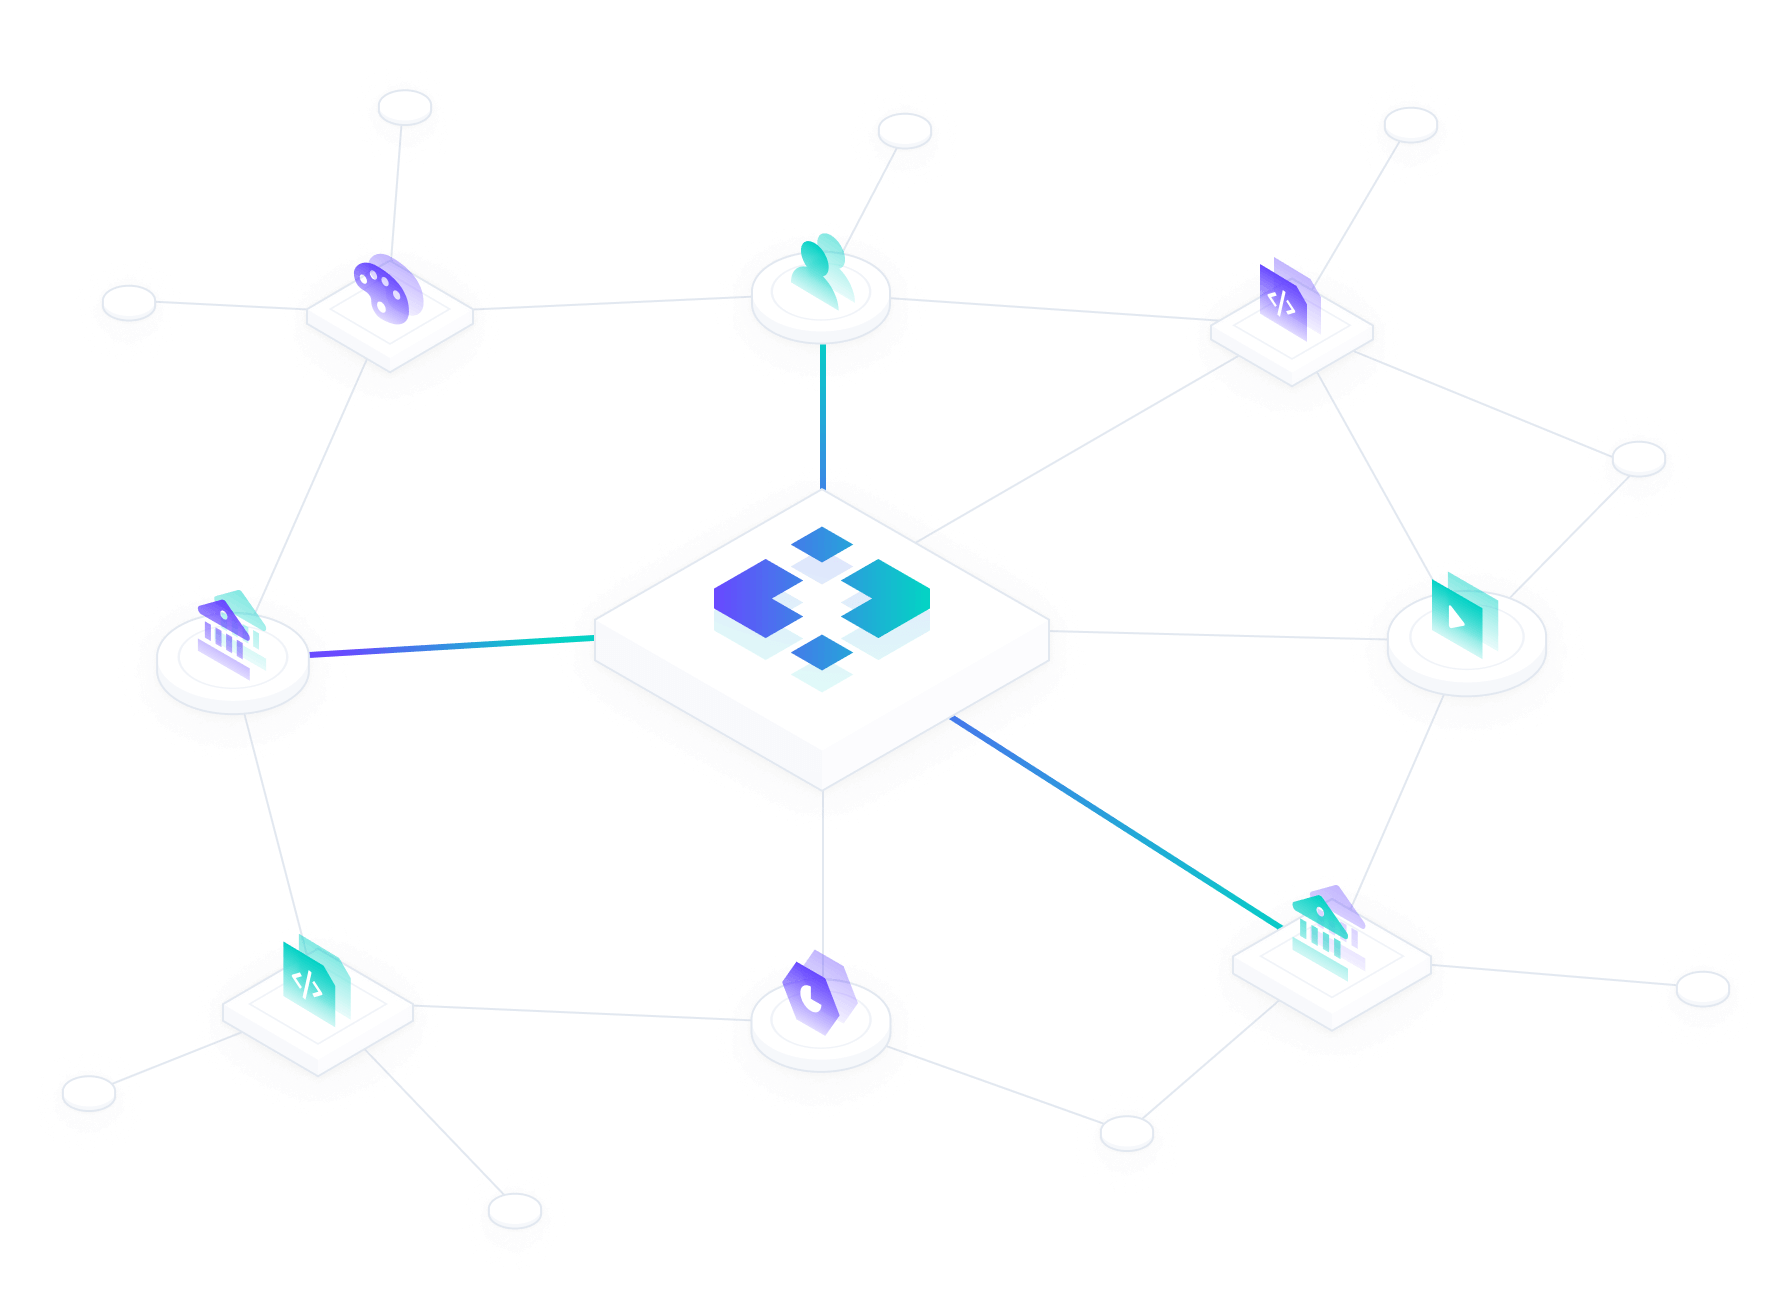
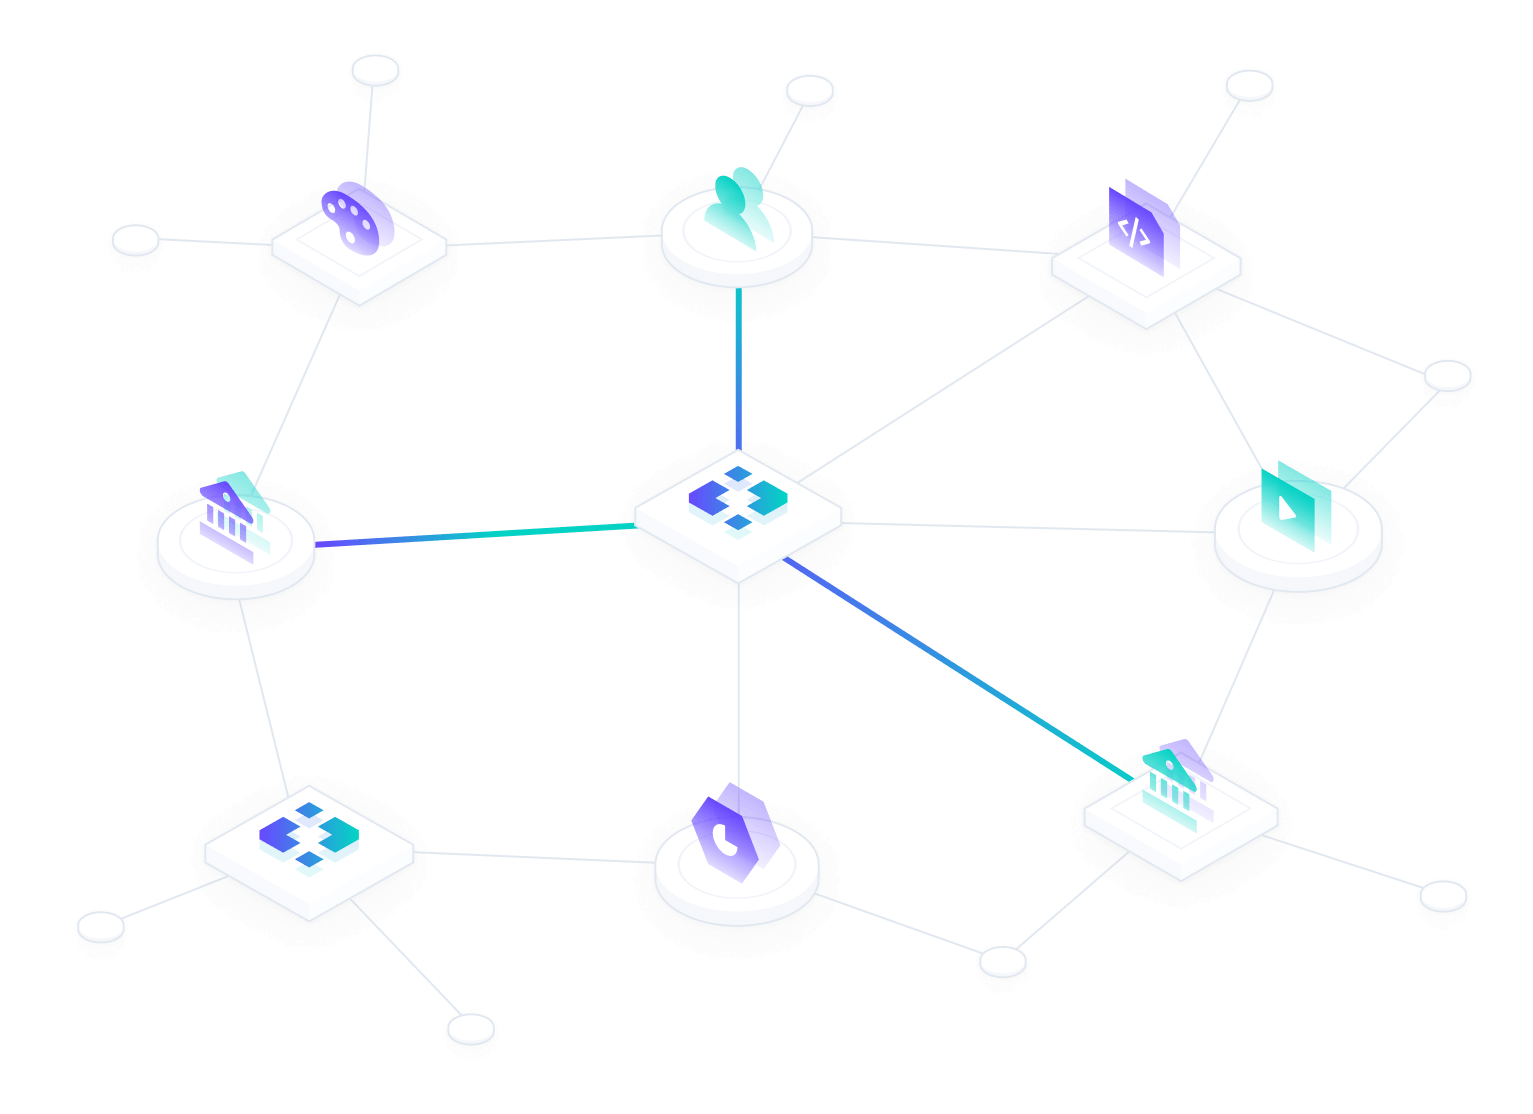
Update section three

diff --git a/src/components/SectionThree/index.js b/src/components/SectionThree/index.js
@@ -12,11 +12,11 @@ const StyledSection = styled.section`
 
 const ImgFrame = styled.img`
   position: absolute;
-  left: 440px;
+  left: 480px;
   top: 50%;
   transform: translateY(-50%);
-  height: 644px;
-  width: 880px;
+  height: 500px;
+  width: 740px;
 `;
 
 const ImgFrameSmall = styled.img`
@@ -27,9 +27,9 @@ const ImgFrameSmall = styled.img`
 
 export default function () {
   return (
-    <StyledSection className="lg:h-684px">
+    <StyledSection className="lg:h-740px">
       <div className="lg:w-1080px mx-auto font-inter max-w-lg lg:max-w-none ">
-        <div className="lg:py-144px pt-60px pb-10 px-8 lg:px-0 relative">
+        <div className="lg:py-172px pt-60px pb-10 px-8 lg:px-0 relative">
           <div className="lg:w-440px">
             <div className="lg:h2-40-bold h4-24-bold">
               Collaboration network

diff --git a/tailwind.config.js b/tailwind.config.js
@@ -49,6 +49,7 @@ module.exports = {
     extend: {
       height: {
         "944px": "944px",
+        "740px": "740px",
         "684px": "684px",
         "576px": "576px",
         "476px": "476px",
@@ -116,6 +117,7 @@ module.exports = {
         "56px": "56px",
       },
       padding: {
+        "172px": "172px",
         "144px": "144px",
         "120px": "120px",
         "100px": "100px",
